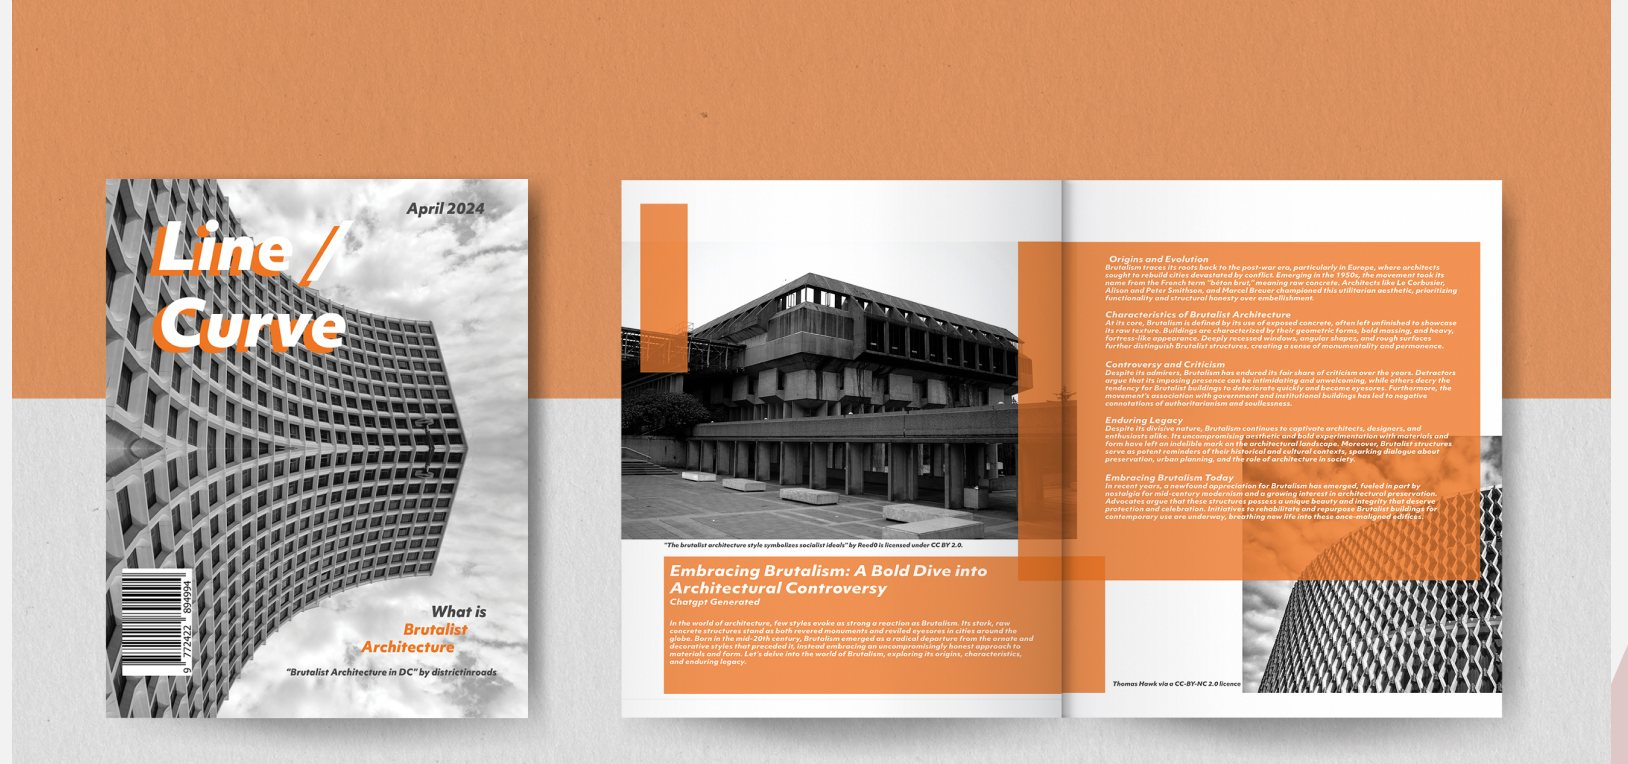
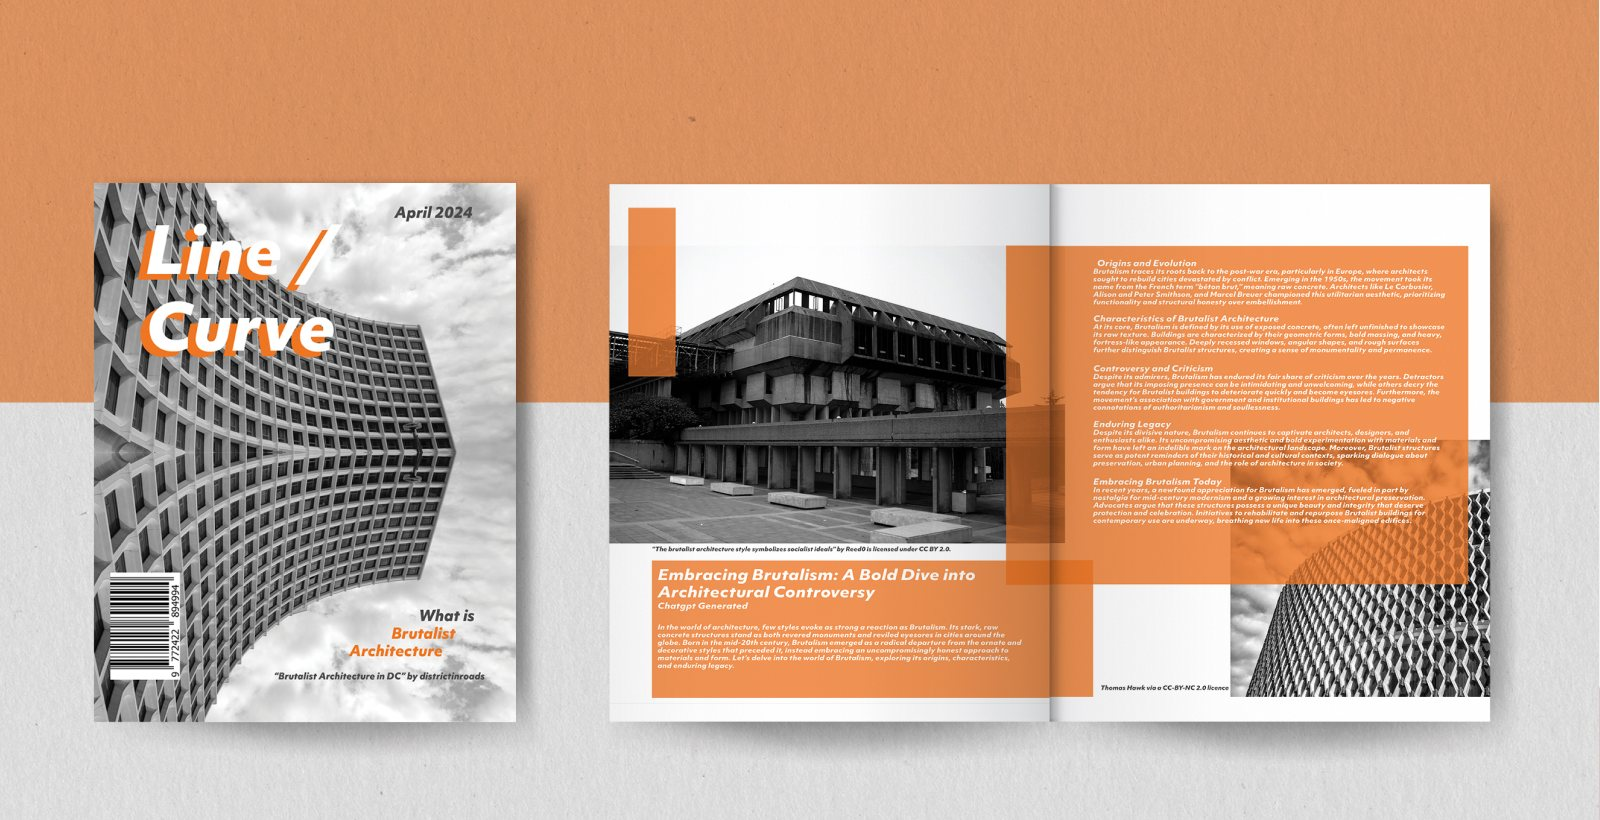
Recrop mockup hero exactly on photo edges (1600x820)
Edge-detected the photo bounds in the design PNG: x 160..1760,
y 473..1292 - flush with the 160px content grid, no page-gray
margins or rose sliver. Replaces the eyeballed 1628x764 crop.

diff --git a/index-mockup-crop.html b/index-mockup-crop.html
@@ -43,7 +43,7 @@
       <!-- ===== Hero project 1 ===== -->
       <article class="project project--hero">
         <a class="project-image" href="#">
-          <img src="images/line-curve-mockup-crop.jpg" alt="Line / Curve — print magazine spread inspired by Brutalist architecture" width="1628" height="764">
+          <img src="images/line-curve-mockup-crop.jpg" alt="Line / Curve — print magazine spread inspired by Brutalist architecture" width="1600" height="820">
         </a>
         <div class="project-meta">
           <div class="project-text">
